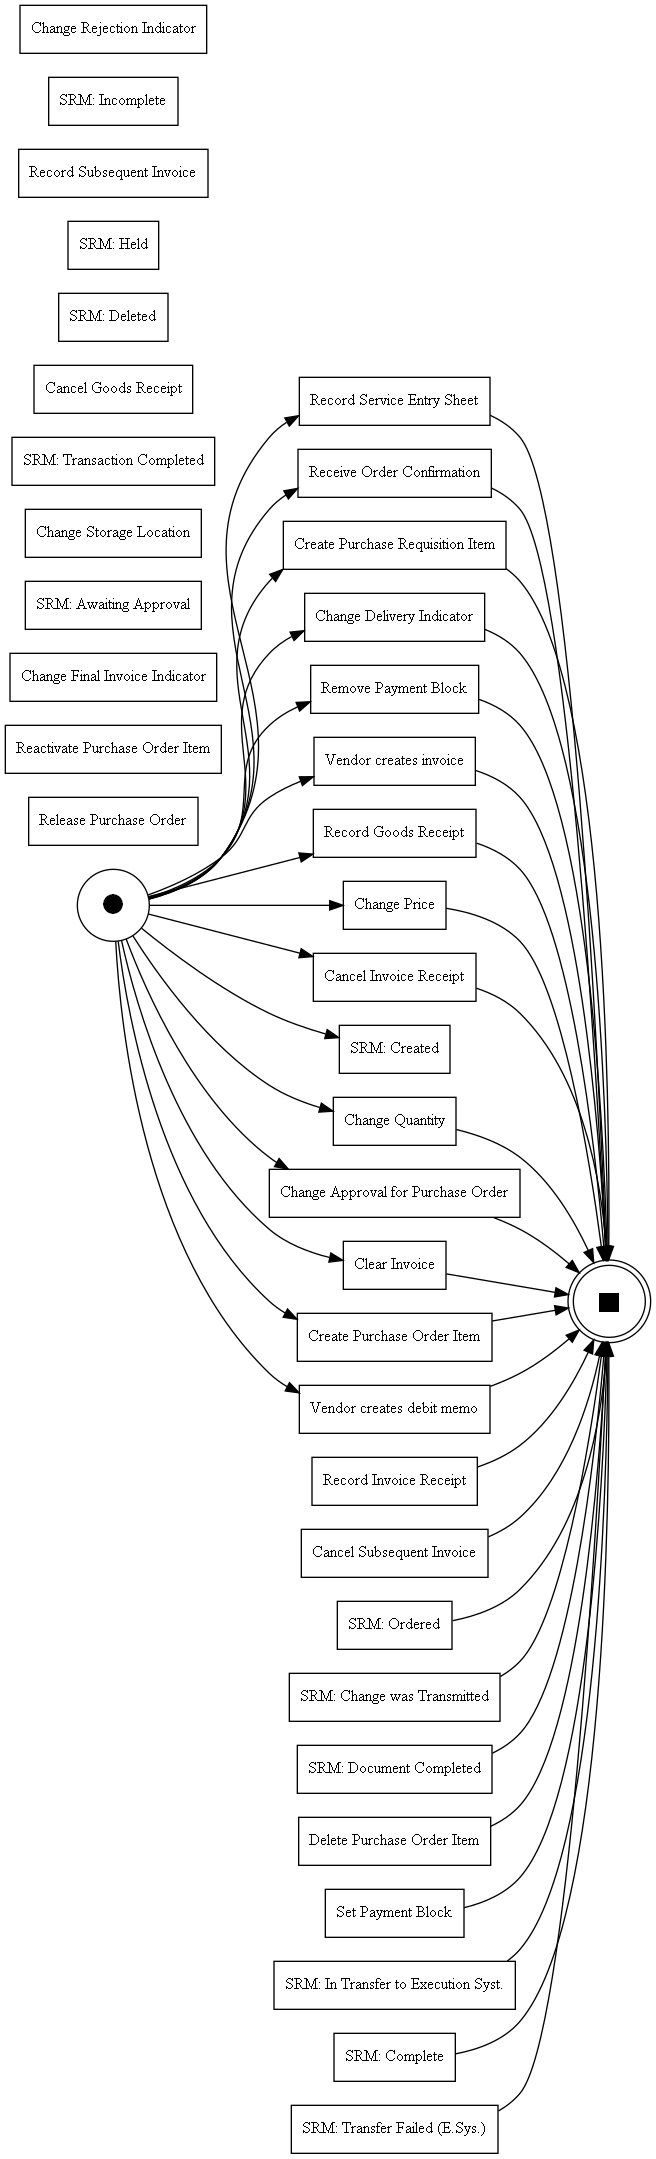
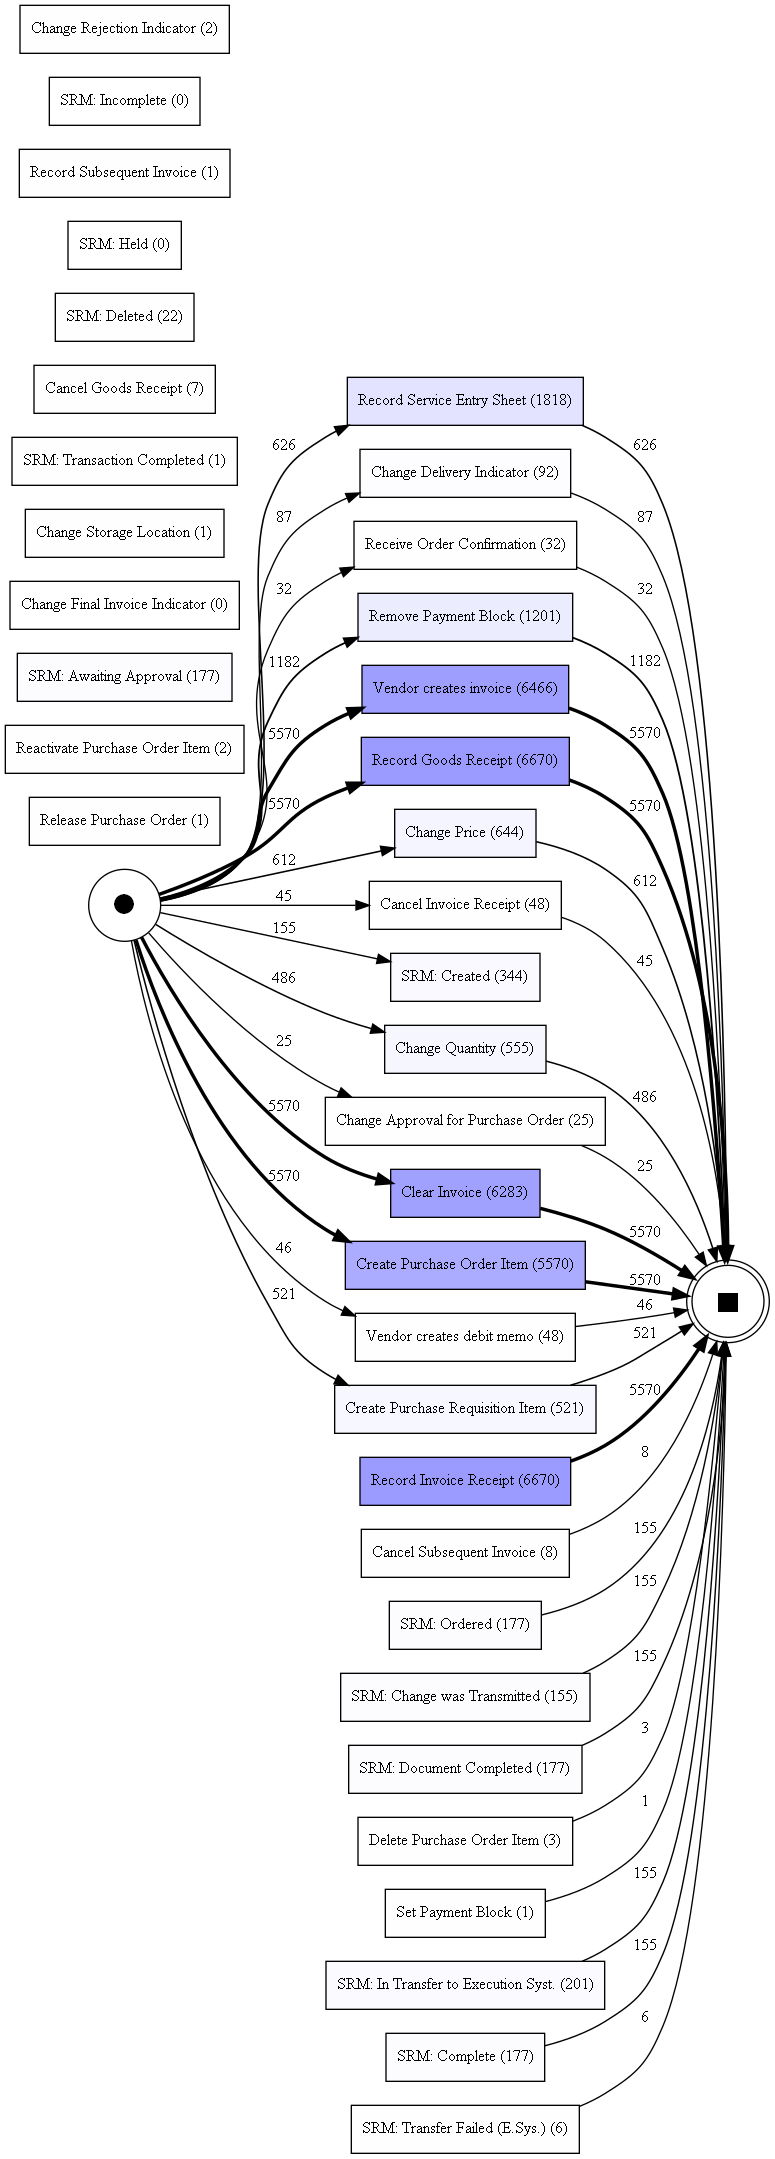
png updated

diff --git a/python_data/Pm4pyHandler.py b/python_data/Pm4pyHandler.py
@@ -478,7 +478,7 @@ class Pm4pyHandler:
 
         petri_net = self.inductive_processing(mode_detail='petri_net', variant='imd')
         gviz = self.petri_net_visualization(petri_net)
-        self.save_file(petri_net, filename='petri_net_imd', add_dir_2=io_name, mode='petri_net')
+        self.save_file(gviz, filename='petri_net_imd', add_dir_2=io_name)
 
         self.update_parameters({heuristic_miner.Variants.CLASSIC.value.Parameters.DEPENDENCY_THRESH: 0.9,
                                 heuristic_miner.Variants.CLASSIC.value.Parameters.MIN_ACT_COUNT: 3000,
@@ -486,7 +486,7 @@ class Pm4pyHandler:
                                replace=True)
         petri_net = self.heuristic_processing(mode_detail='petri_net')
         gviz = self.petri_net_visualization(petri_net)
-        self.save_file(petri_net, filename='petri_net_3000_3000', add_dir_2=io_name, mode='petri_net')
+        self.save_file(gviz, filename='petri_net_3000_3000', add_dir_2=io_name)
 
         self.update_parameters({heuristic_miner.Variants.CLASSIC.value.Parameters.DEPENDENCY_THRESH: 0.9,
                                 heuristic_miner.Variants.CLASSIC.value.Parameters.MIN_ACT_COUNT: 300,
@@ -498,7 +498,7 @@ class Pm4pyHandler:
 
         process_tree = self.inductive_processing(mode_detail='process_tree', variant='imd')
         gviz = self.inductive_visualization(process_tree)
-        self.save_file(process_tree, filename='process_tree', add_dir_2=io_name, mode='process_tree')
+        self.save_file(gviz, filename='process_tree', add_dir_2=io_name)
 
         variant_dfg = 'FREQUENCY'
         dfg = self.dfg_processing(variant=variant_dfg)
